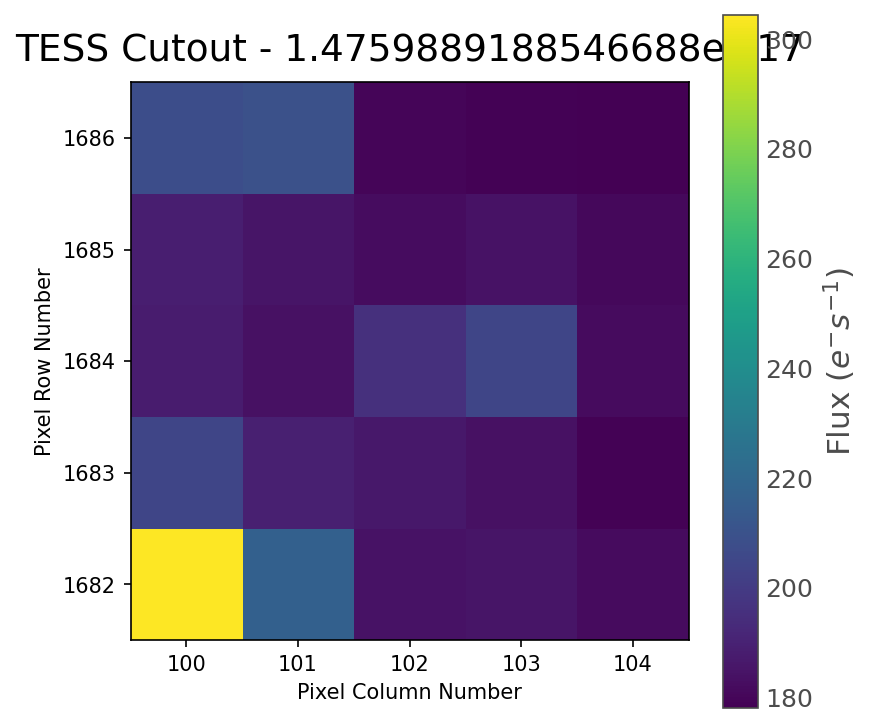
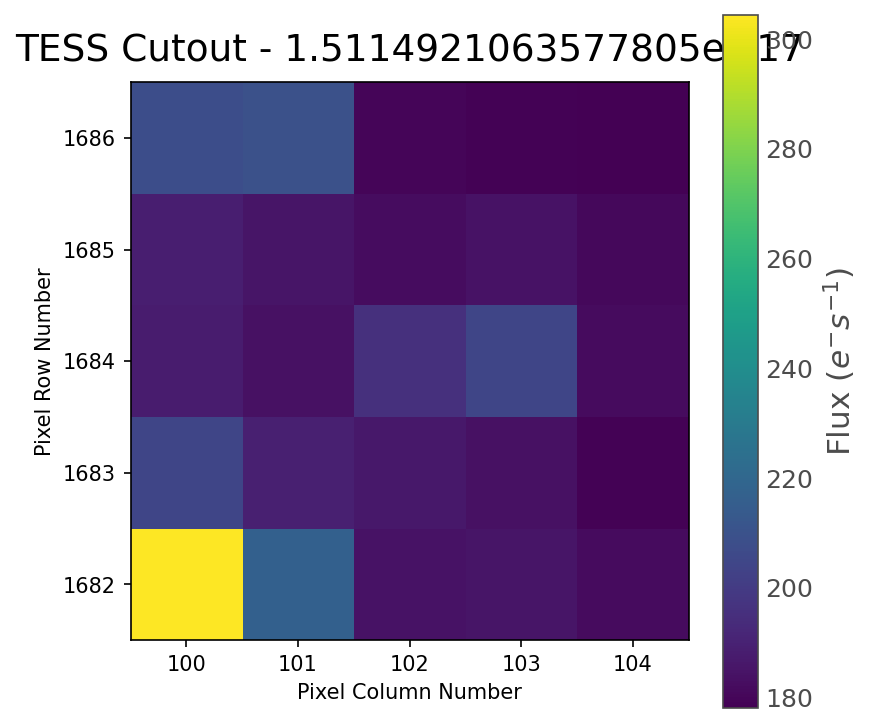
Added K-Dwarf Certification Report after Stage 1

Changed region(s): [[0.3711, 0.0303, 0.8041, 0.0908]]

diff --git a/streamlit_app/pages/05b_K_Dwarf_Certificate.py b/streamlit_app/pages/05b_K_Dwarf_Certificate.py
@@ -1,0 +1,142 @@
+"""
+ExoX - K-Dwarf Certification Report
+Presented after Stage 1 completion
+"""
+
+import streamlit as st
+import pandas as pd
+import os
+import json
+from datetime import datetime
+
+st.set_page_config(page_title="K-Dwarf Certificate - ExoX", layout="wide")
+
+if not st.session_state.get("logged_in", False):
+    st.warning("Please login first.")
+    st.switch_page("pages/01_Register.py")
+
+if "simbad_results" not in st.session_state:
+    st.warning("Complete SIMBAD first.")
+    st.stop()
+
+simbad_df = pd.DataFrame(st.session_state.simbad_results)
+certified = simbad_df[simbad_df["_passed"] == True] if "_passed" in simbad_df.columns else simbad_df
+
+st.markdown("---")
+st.markdown("<h1 style='text-align: center; color: #28a745;'>STAGE 1 COMPLETE</h1>", unsafe_allow_html=True)
+st.markdown("<h2 style='text-align: center;'>K-Dwarf Discovery Certified</h2>", unsafe_allow_html=True)
+
+st.markdown("---")
+
+# Congratulations banner
+st.success(f"""
+### Congratulations, {st.session_state.username}!
+
+You have successfully completed the **K-Dwarf Search** — the first major milestone 
+in exoplanet discovery. Your rigorous analysis across three major astronomical 
+catalogs has identified **{len(certified)} certified K-dwarf star(s)** ready for 
+exoplanet investigation.
+""")
+
+# Summary metrics
+col1, col2, col3, col4 = st.columns(4)
+with col1:
+    st.metric("Input Stars", st.session_state.get("n_targets", "N/A"))
+with col2:
+    st.metric("Gaia Survivors", st.session_state.get("n_survivors", "N/A"))
+with col3:
+    n_tess = st.session_state.get("n_tess_passed", "N/A")
+    st.metric("TESS Matched", n_tess if n_tess is not None else "N/A")
+with col4:
+    st.metric("K-Dwarfs Certified", len(certified))
+
+st.markdown("---")
+
+# Pipeline funnel
+st.markdown("### Your Analysis Pipeline")
+st.markdown(f"""
+| Stage | Catalog | Purpose | Result |
+|-------|---------|---------|--------|
+| 1 | **Gaia DR3** | Temperature, surface gravity, parallax, RUWE | Stars validated |
+| 2 | **TESS/TIC** | Contamination check, TESS observability | Stars matched |
+| 3 | **SIMBAD** | Literature spectral type verification | K-dwarfs confirmed |
+""")
+
+st.markdown("---")
+
+# Certified K-Dwarfs table
+st.markdown("### Certified K-Dwarf Stars")
+
+if len(certified) > 0:
+    display_cols = ["source_id", "SIMBAD ID", "Spectral Type", "Object Type", "Status"]
+    available = [c for c in display_cols if c in certified.columns]
+    st.dataframe(certified[available], use_container_width=True)
+    
+    # Download certificate
+    report_text = f"""
+    EXOX K-DWARF CERTIFICATION REPORT
+    {'='*50}
+    Date: {datetime.now().strftime('%Y-%m-%d %H:%M')}
+    Researcher: {st.session_state.username}
+    
+    PIPELINE SUMMARY:
+    Input Stars: {st.session_state.get('n_targets', 'N/A')}
+    Gaia Survivors: {st.session_state.get('n_survivors', 'N/A')}
+    TESS Matched: {n_tess}
+    K-Dwarfs Certified: {len(certified)}
+    
+    CATALOGS QUERIED:
+    - Gaia DR3 (ESA)
+    - TESS Input Catalog (NASA)
+    - SIMBAD (CDS Strasbourg)
+    
+    CERTIFIED STARS:
+    """
+    for _, star in certified.iterrows():
+        report_text += f"\n  {star.get('source_id', 'N/A')} - {star.get('Spectral Type', 'N/A')}"
+    
+    st.download_button(
+        "DOWNLOAD CERTIFICATE (TXT)",
+        report_text,
+        f"k_dwarf_certificate_{datetime.now().strftime('%Y%m%d')}.txt",
+        "text/plain",
+        use_container_width=True
+    )
+else:
+    st.info("No K-dwarfs certified in this run.")
+
+st.markdown("---")
+
+# What this means
+st.markdown("### What This Means")
+st.markdown(f"""
+Your **{len(certified)} certified K-dwarf(s)** have passed rigorous validation:
+
+- **Temperature** between 3,900-5,300 K (orange dwarf range)
+- **Surface gravity** consistent with main sequence stars
+- **Parallax measurements** reliable enough for distance calculation
+- **No binarity flags** that would complicate exoplanet detection
+- **Low contamination** in TESS data for clean transit signals
+
+These stars are now ready for **Stage 2: Exoplanet Probe**, where you will 
+search for transiting planets using real TESS photometry.
+""")
+
+st.markdown("---")
+
+# Next step
+col1, col2 = st.columns(2)
+with col1:
+    st.markdown("### Ready for Exoplanet Detection?")
+    st.page_link("pages/06_FITS_Download.py", label="START STAGE 2: EXOPLANET PROBE")
+with col2:
+    st.markdown("### Review Your Data")
+    st.page_link("pages/05_SIMBAD_CrossMatch.py", label="BACK TO SIMBAD RESULTS")
+
+st.markdown("---")
+st.markdown(
+    "<p style='text-align: center; color: #888;'>"
+    "ExoX v0.1 | K-Dwarf Search Complete | Data sourced from ESA Gaia, NASA TESS, CDS SIMBAD"
+    "</p>",
+    unsafe_allow_html=True
+)

diff --git a/streamlit_app/pages/05_SIMBAD_CrossMatch.py b/streamlit_app/pages/05_SIMBAD_CrossMatch.py
@@ -145,7 +145,7 @@ if st.button("Run SIMBAD Cross-Match", type="primary"):
             st.session_state.certified_k_dwarfs = passed["source_id"].tolist()
             
             st.markdown("---")
-            st.page_link("pages/06_FITS_Download.py", label="GO TO FITS IMAGES (STAGE 2)")
+            st.page_link("pages/05b_K_Dwarf_Certificate.py", label="VIEW K-DWARF CERTIFICATE")
 
 st.markdown("---")
 st.page_link("pages/04_TESS_CrossMatch.py", label="Back to TESS Cross-Match")